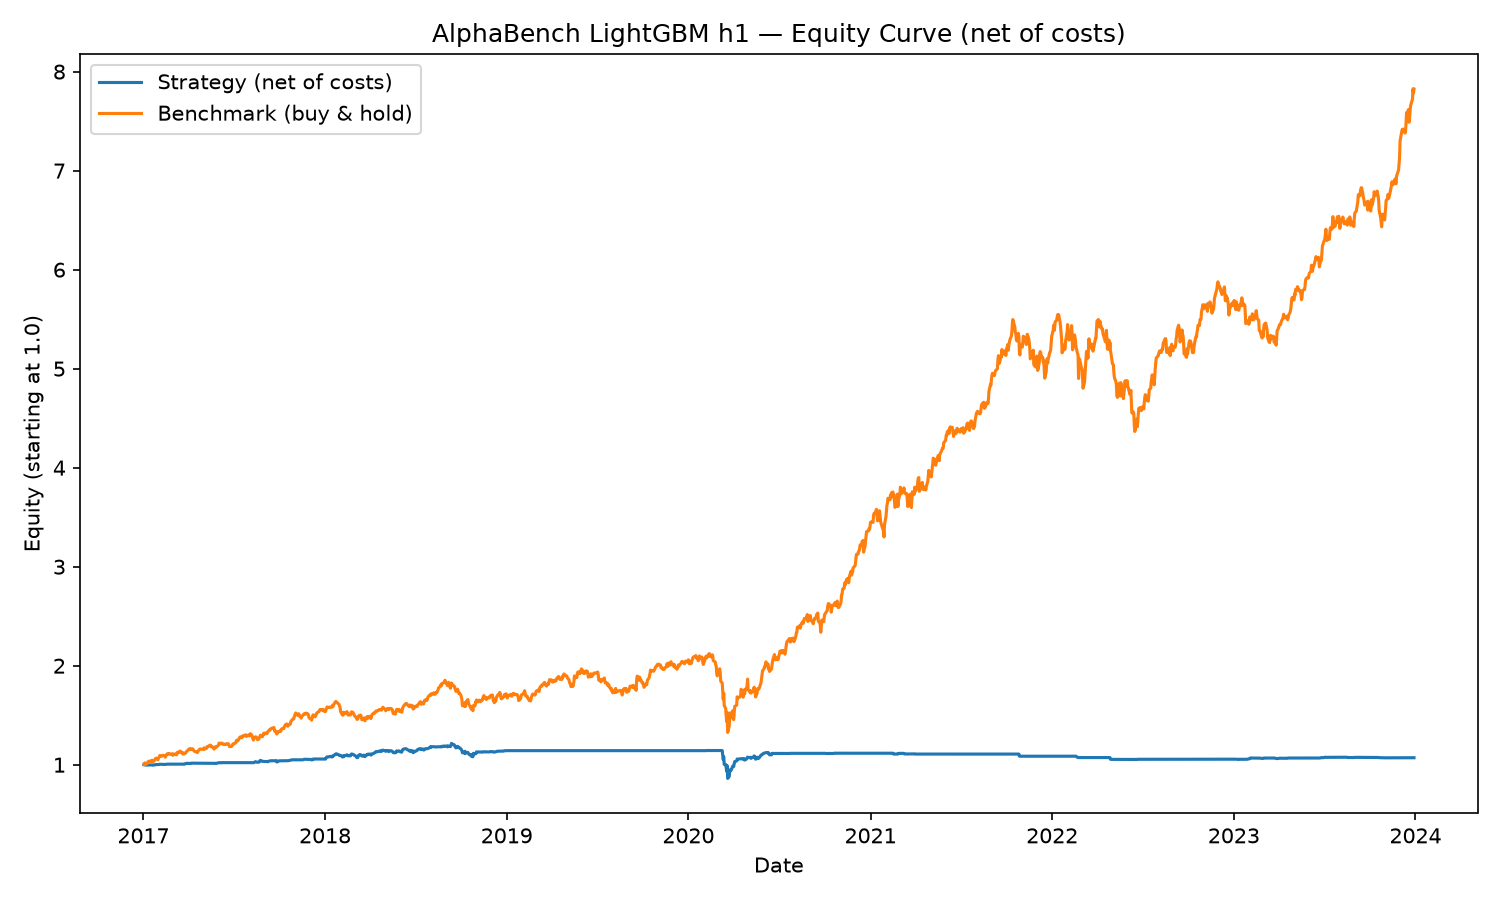
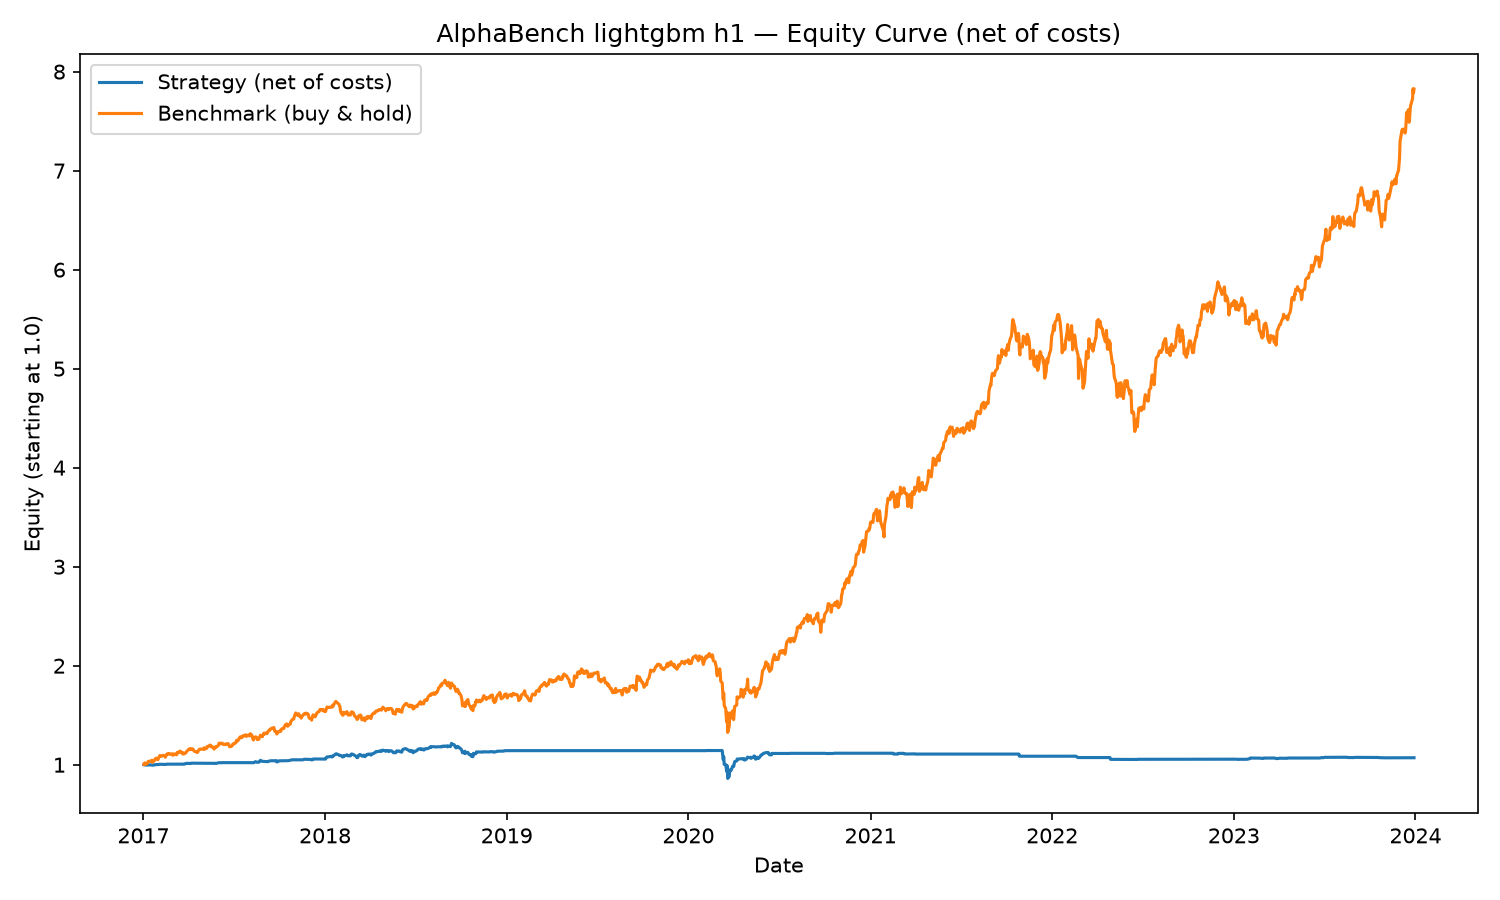
Add per-ticker breakdown to the backtest report
evaluation/robustness.by_ticker() (added earlier but never wired up)
mirrors by_period, grouped by symbol instead of year -- answers
PROPOSAL.md section 7.3's question directly: does the edge generalise,
or is it a couple of names carrying the rest?

Per-ticker Sharpe on the NSE primary backtest ranges from -0.80
(NTPC.NS) to +0.62 (DRREDDY.NS), roughly evenly split positive/negative
across the 29 symbols -- consistent with noise, not a real per-stock
edge. All other backtest_results.json fields are byte-identical to the
previous run (deterministic, verified via diff); only by_ticker is new.

Changed region(s): [[0.5213, 0.0311, 0.7667, 0.0622], [0.276, 0.0311, 0.4907, 0.0622]]

diff --git a/tests/test_backtest.py b/tests/test_backtest.py
@@ -6,7 +6,9 @@ import pytest
 
 from alphabench.evaluation.backtest import cost_sensitivity, run_backtest
 from alphabench.evaluation.robustness import (
+    block_bootstrap_auc,
     block_bootstrap_sharpe,
+    by_ticker,
     deflated_sharpe,
     diebold_mariano,
 )
@@ -107,4 +109,23 @@ def test_diebold_mariano_smoke():
     assert set(result.keys()) == {"dm_stat", "p_value", "favours"}
     assert np.isfinite(result["dm_stat"])
     assert np.isfinite(result["p_value"])
-    assert result["favours"] in {"model_1", "model_2"}
+
+
+def test_by_ticker_breaks_out_each_symbol(random_signal_backtest_df):
+    trades = run_backtest(random_signal_backtest_df)["trades"]
+    result = by_ticker(trades)
+    assert set(result["symbol"]) == set(random_signal_backtest_df["symbol"].unique())
+    assert result["n_days"].sum() == len(trades)
+    # sorted descending by sharpe
+    assert result["sharpe"].is_monotonic_decreasing
+
+
+def test_block_bootstrap_auc_ci_brackets_point_estimate():
+    rng = np.random.default_rng(5)
+    n = 400
+    y = rng.integers(0, 2, n)
+    proba = np.clip(y * 0.1 + rng.normal(0.5, 0.15, n), 0, 1)  # weak real signal
+    dates = pd.bdate_range("2022-01-01", periods=n)
+    result = block_bootstrap_auc(y, proba, pd.Series(dates), block=21, n_boot=500, seed=1)
+    assert result["ci_lower"] <= result["auc"] <= result["ci_upper"]
+    assert result["n_boot_used"] > 0

diff --git a/src/alphabench/cli.py b/src/alphabench/cli.py
@@ -22,6 +22,7 @@ from alphabench.evaluation.robustness import (
     block_bootstrap_auc,
     block_bootstrap_sharpe,
     by_period,
+    by_ticker,
 )
 from alphabench.features import pipeline
 from alphabench.models.arima import run_diagnostics_report
@@ -313,6 +314,7 @@ def backtest_cmd(
     )
     boot = block_bootstrap_sharpe(result["daily"]["net"])
     period_df = by_period(result["trades"])
+    ticker_df = by_ticker(result["trades"])
 
     console.print("[bold]Backtest metrics[/bold]")
     metrics_df = pd.DataFrame(result["metrics"].items(), columns=["metric", "value"])
@@ -334,6 +336,9 @@ def backtest_cmd(
     console.print("\n[bold]Per-year breakdown[/bold]")
     console.print(period_df.to_string())
 
+    console.print("\n[bold]Per-ticker breakdown[/bold]")
+    console.print(ticker_df.to_string(index=False))
+
     reports_dir = Path("reports/metrics")
     reports_dir.mkdir(parents=True, exist_ok=True)
 
@@ -349,6 +354,7 @@ def backtest_cmd(
         "threshold_sensitivity": threshold_df.to_dict(orient="records"),
         "bootstrap_sharpe": boot,
         "by_period": by_period_records.to_dict(orient="records"),
+        "by_ticker": ticker_df.to_dict(orient="records"),
     }
     # Preserve the exact existing filename for the default lightgbm/h=1/untagged run (the
     # API and dashboard read it by that literal name); any other model/horizon/tag gets
